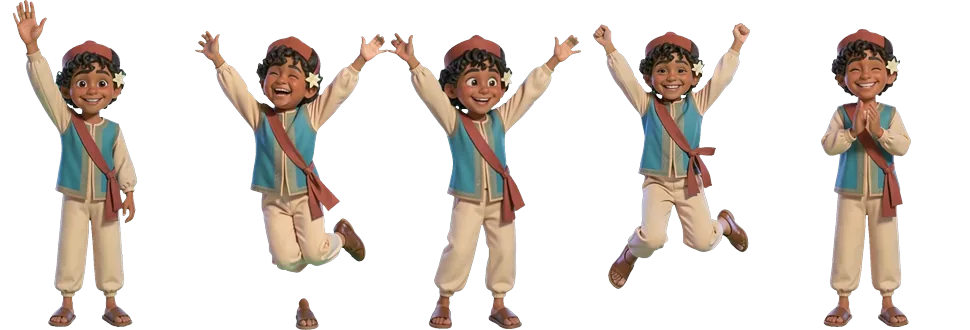
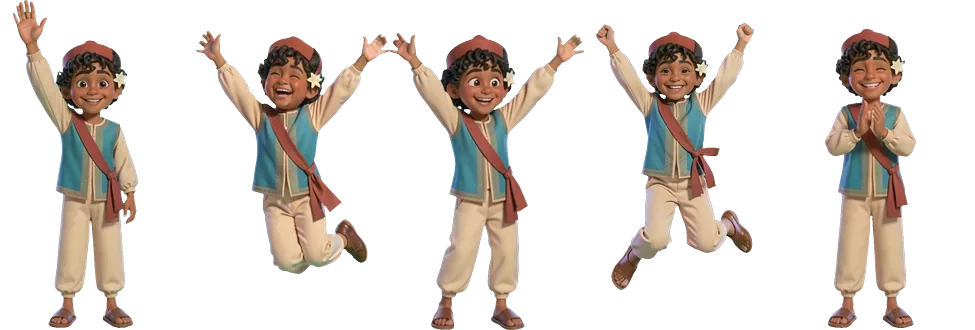
Ma Houma : gestes en jebba, petits morceaux détachés enlevés
Claude-Session: https://claude.ai/code/session_01Lr4SkBJnq1yRYGqqaX6PKr

diff --git a/jeux/houma/gestes.js b/jeux/houma/gestes.js
@@ -1,2 +1,2 @@
 // fabriqué par docs/houma/build_gestes.py
-window.HOUMA_GESTES = {"amine":{"ville":[210,330,0.484,1.125,0.995]},"anis":{"ville":[188,330,0.479,1.206,0.981]},"essil":{"ville":[186,330,0.496,1.207,0.98]},"fares":{"ville":[195,330,0.485,1.194,0.987]},"imen":{"ville":[172,330,0.516,1.215,0.983]},"nour":{"ville":[194,330,0.469,1.189,0.985]},"salma":{"ville":[189,330,0.482,1.219,0.965]},"yasmine":{"ville":[187,330,0.453,1.188,0.987]}};
+window.HOUMA_GESTES = {"amine":{"ville":[210,330,0.484,1.125,0.995],"jebba":[198,330,0.482,1.186,0.985]},"anis":{"ville":[188,330,0.479,1.206,0.981],"jebba":[196,330,0.472,1.198,0.985]},"essil":{"ville":[186,330,0.496,1.207,0.98],"jebba":[183,330,0.46,1.208,0.979]},"fares":{"ville":[195,330,0.485,1.194,0.987],"jebba":[190,330,0.467,1.19,0.987]},"imen":{"ville":[172,330,0.516,1.215,0.983],"jebba":[184,330,0.461,1.204,0.985]},"nour":{"ville":[195,330,0.469,1.183,0.991],"jebba":[188,330,0.464,1.198,0.984]},"salma":{"ville":[189,330,0.482,1.219,0.965],"jebba":[192,330,0.463,1.191,0.995]},"yasmine":{"ville":[187,330,0.453,1.188,0.987],"jebba":[191,330,0.47,1.196,0.987]}};

diff --git a/docs/houma/build_gestes.py b/docs/houma/build_gestes.py
@@ -13,6 +13,12 @@ out = 'jeux/houma/gestes.js'; meta = {}
 if os.path.exists(out):
     try: meta = json.loads(open(out, encoding='utf-8').read().split('=', 1)[1].strip().rstrip(';'))
     except Exception: meta = {}
+def propre(im):   # enlève les petits morceaux détachés (une chaussure en trop, une tache) : on garde les grands morceaux
+    import numpy as np; from scipy import ndimage
+    a = np.array(im); m = a[:, :, 3] > 60; lab, n = ndimage.label(m)
+    if n > 1:
+        sz = ndimage.sum(m, lab, range(1, n + 1)); keep = np.isin(lab, [i + 1 for i, v in enumerate(sz) if v >= sz.max() * .04]); a[:, :, 3] = np.where(keep | (a[:, :, 3] <= 60) & ndimage.binary_dilation(keep, iterations=3), a[:, :, 3], 0)
+    return Image.fromarray(a)
 def box(im):
     a = im.getchannel('A').point(lambda v: 255 if v > 60 else 0); bb = a.getbbox(); return a, bb
 def debout(i, t):
@@ -28,7 +34,7 @@ for f in sorted(glob.glob(f'{gdir}/*_salut_00001_.png')):
     ft = sa.crop((sb[0], sb[3] - max(4, (sb[3] - sb[1]) // 12), sb[2], sb[3])).getbbox(); xc = (sb[0] + (ft[0] + ft[2]) / 2) / H0
     ims = []
     for x in fr:   # le cadrage est gardé par ComfyUI : on place chaque geste dans le même repère que l'image debout (le saut reste en l'air)
-        im = cut(x); a, bb = box(im); n = im.height; ims.append((im, [v / n for v in bb], n))
+        im = propre(cut(x)); a, bb = box(im); n = im.height; ims.append((im, [v / n for v in bb], n))
     L = max(xc - bb[0] for im, bb, n in ims); R = max(bb[2] - xc for im, bb, n in ims); T = min(bb[1] for im, bb, n in ims); B = max([yg] + [bb[3] for im, bb, n in ims])
     ch = 330; k0 = ch / (B - T); cw = round((L + R) * k0)
     sheet = Image.new('RGBA', (cw * 5, ch))
